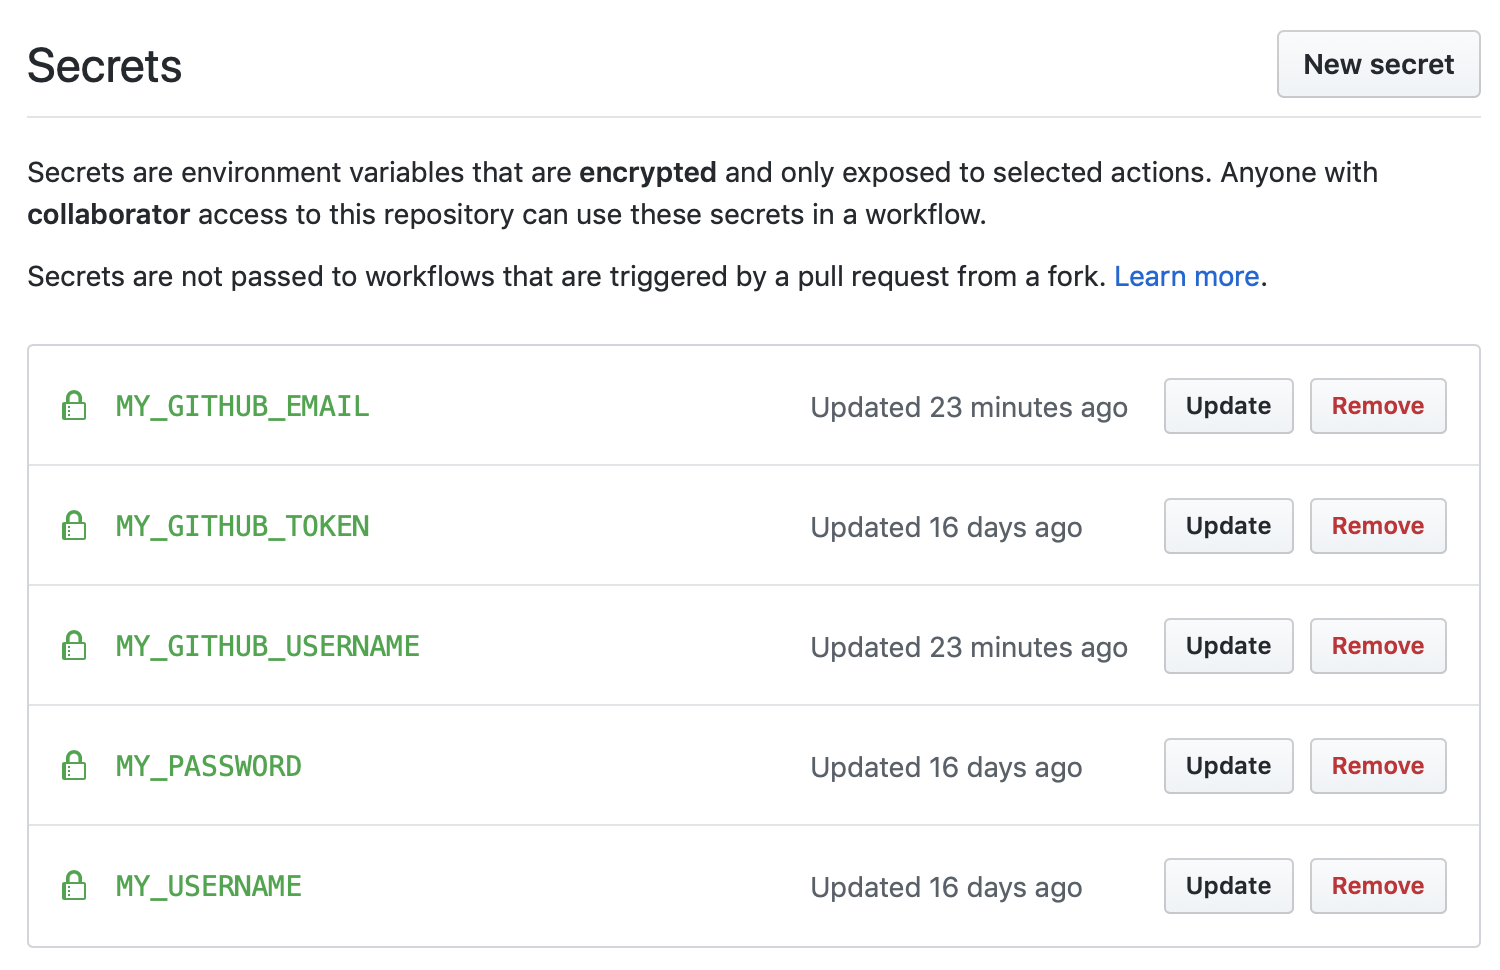
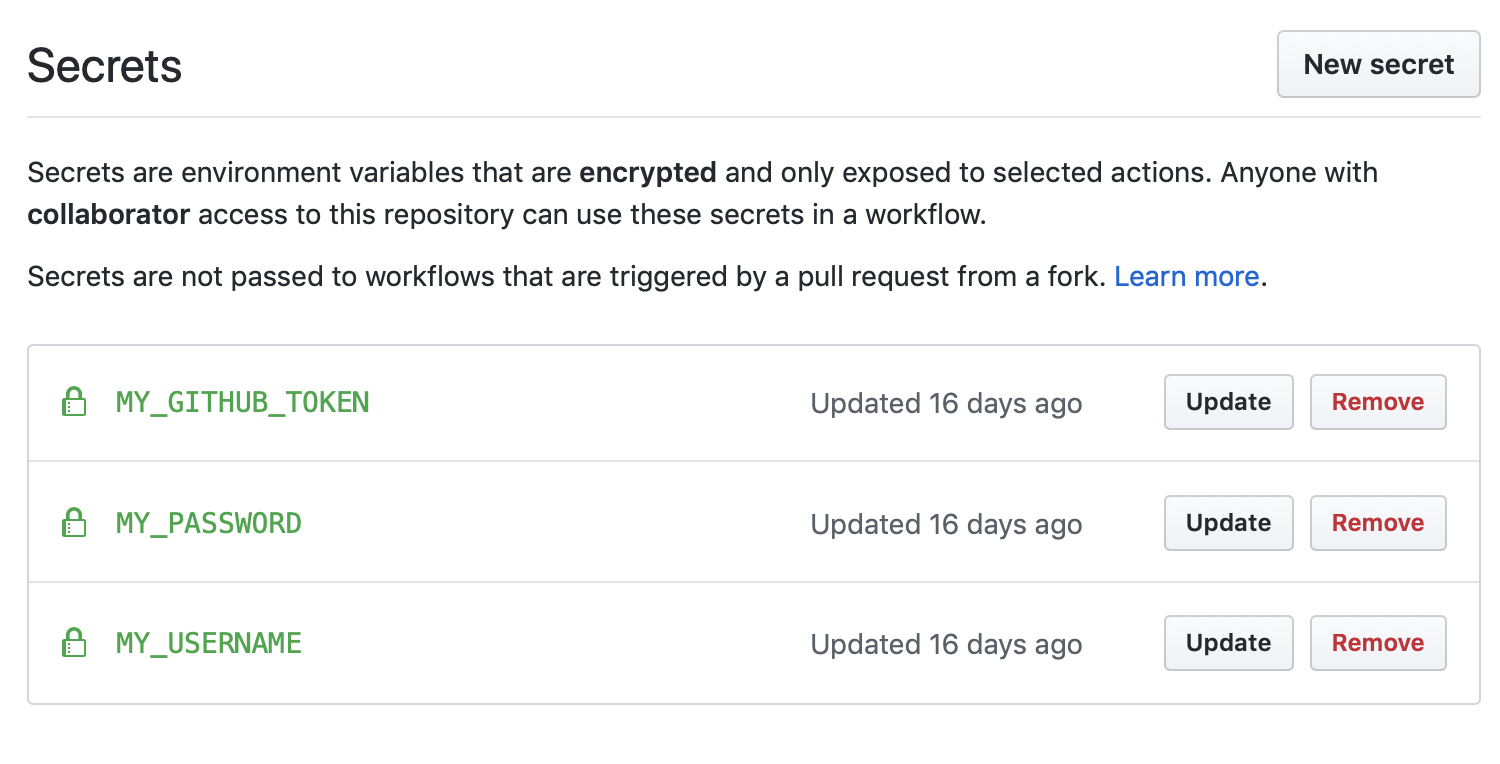
[Bernard] Update the documentation

diff --git a/docs/autofill-github-actions.md b/docs/autofill-github-actions.md
@@ -45,8 +45,6 @@ These values are used to access the repository and your logbook page
 | Name | Value |
 | ---- | ----- |
 | `MY_GITHUB_TOKEN` | Paste your github token you previously made |
-| `MY_GITHUB_EMAIL` | Your github account email |
-| `MY_GITHUB_USERNAME` | Your github username |
 | `MY_USERNAME` | Your BINUS ID (NIM) |
 | `MY_PASSWORD` | Your account password |
 > Secrets are encrypted and is only accessable by the repository in your own account, so it won't be visible to anyone.
@@ -55,7 +53,7 @@ These values are used to access the repository and your logbook page
 
 #### Add Github Actions
 
-9. Go to the `main.yml` file (or open [this link](https://github.com/bernardadhitya/intern-logbook-chatbot/blob/master/.github/workflows/main.yml) on new tab), then copy the whole script
+9. Go to the `template.yml` file (or open [this link](https://github.com/bernardadhitya/intern-logbook-chatbot/blob/master/.github/workflows/template.yml) on new tab), then copy the whole script
 ![test](autofill-github-actions-assets/10.png)
 
 10. Go to the Actions tab, and set a new workflow
@@ -67,7 +65,8 @@ These values are used to access the repository and your logbook page
 12. Delete the boilerplate and paste the whole script there, and name it `autofill.yml`
 ![test](autofill-github-actions-assets/13.png)
 
-
+13. On line 40, there will be a step to commit data to your forked repository. Replace `INSERT_YOUR_GITHUB_EMAIL_HERE` and `INSERT_YOUR_GITHUB_USERNAME_HERE` with your credentials.
+![test](autofill-github-actions-assets/15.png)
 
 That's it! Github Actions will use that value to access the repository and your logbook account to automatically fill your logbook.
 

diff --git a/docs/line-bot-heroku.md b/docs/line-bot-heroku.md
@@ -1,18 +1,21 @@
 # Deploy LINE Chatbot with LINE Developer and Heroku
 
 ### Prerequisite
-Before following this tutorial, please make sure to have an active Github, Heroku and LINE Developer account.
+Before following this tutorial, please make sure to have;
+- have done setting up the [autofiller](https://github.com/bernardadhitya/intern-logbook-chatbot/blob/master/docs/autofill-github-actions.md)
+- an active Github
+- Heroku account 
+- LINE Developer account
 
 ### Steps
-1. Fork the project
+1. Setup the autofiller
 2. Integrate the project with Heroku
 3. Create LINE Bot channel
 4. Connect LINE Bot channel with Heroku via Webhook
 5. Give access for Heroku to access your account
 
-### Fork the project
-1. Fork the [project repository](https://github.com/bernardadhitya/intern-logbook-chatbot) to your Github account
-![test](line-bot-heroku-assets/1.png)
+### Setup the autofiller
+1. In case you missed it, please read the tutorial on how to setup the autofiller [here](https://github.com/bernardadhitya/intern-logbook-chatbot/blob/master/docs/autofill-github-actions.md). The autofiller is used not only to autofill, but also do daily local update on the API to get your latest logbook data.
 
 ### Integrate the project with Heroku
 2. Login to your Heroku account and create a new app. App name can be anything, as long as its not used by anyone
